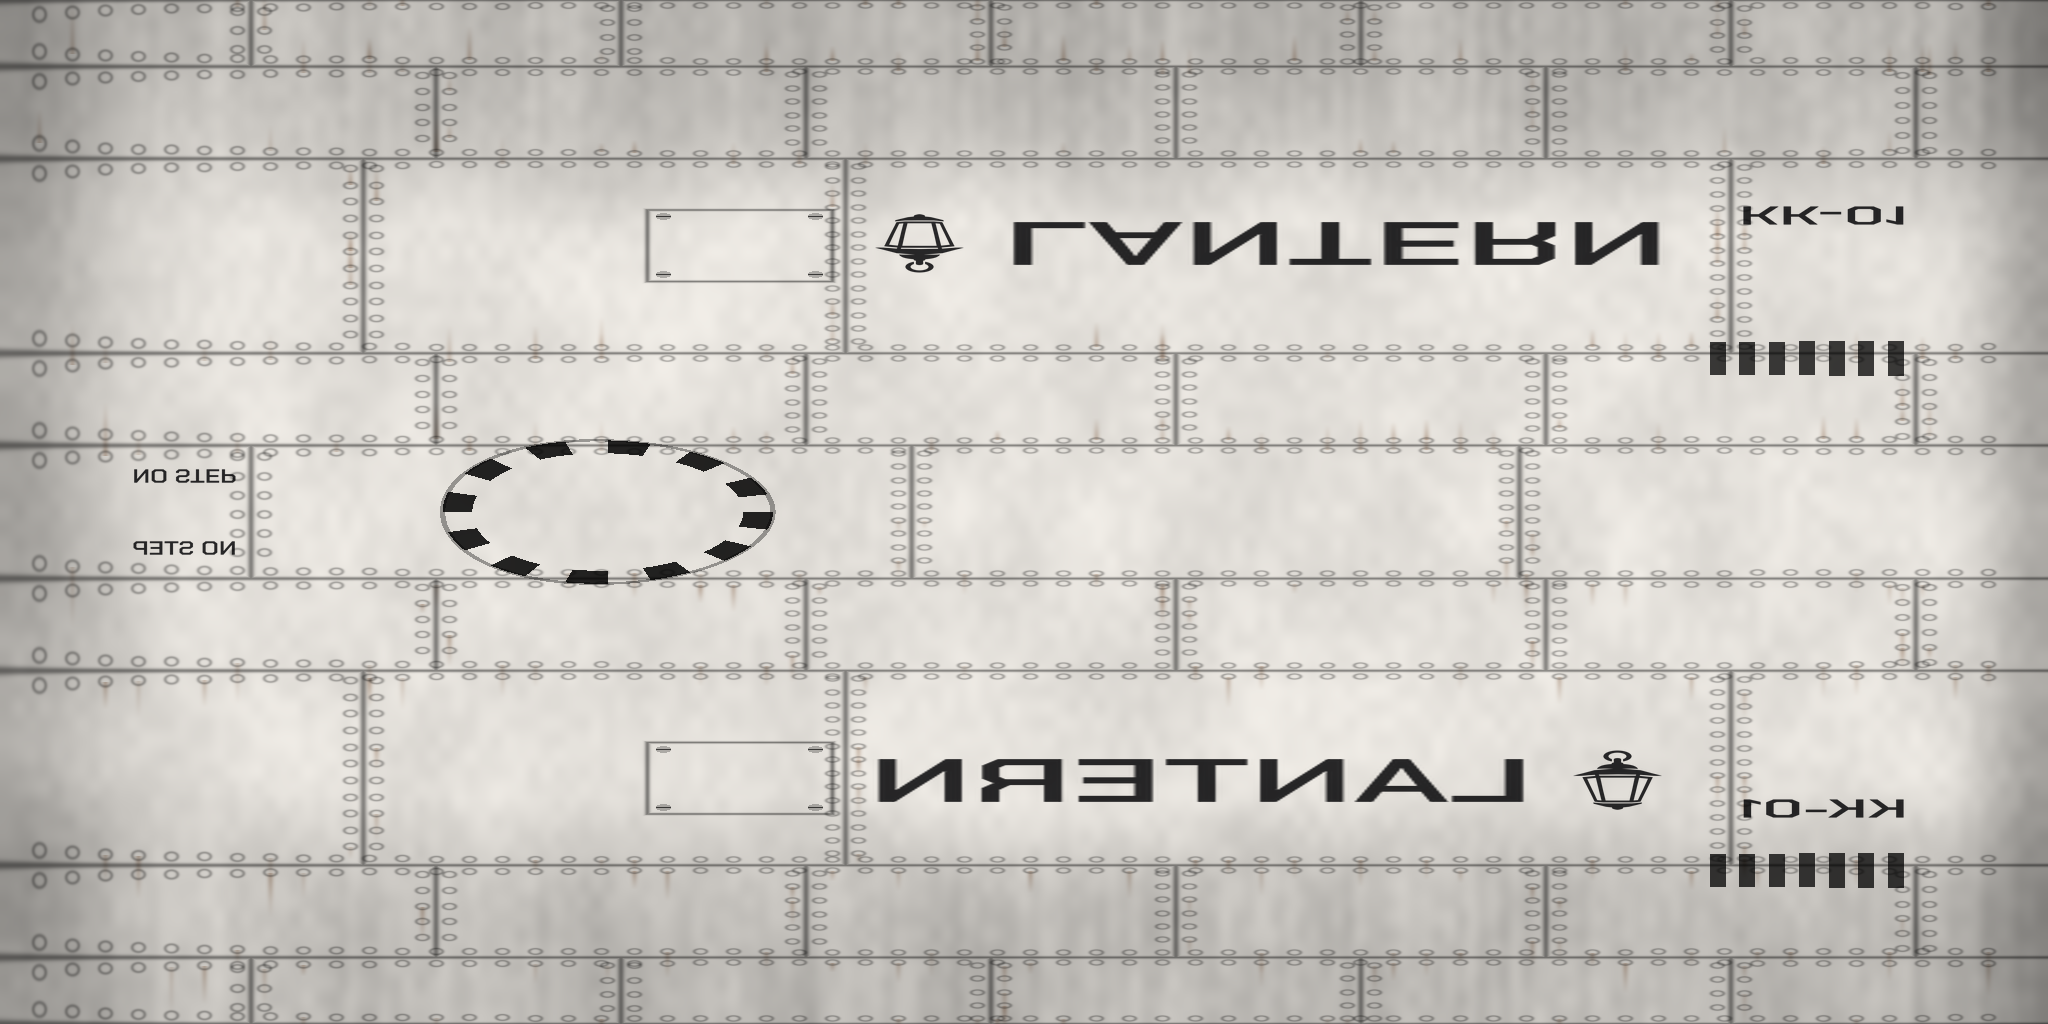
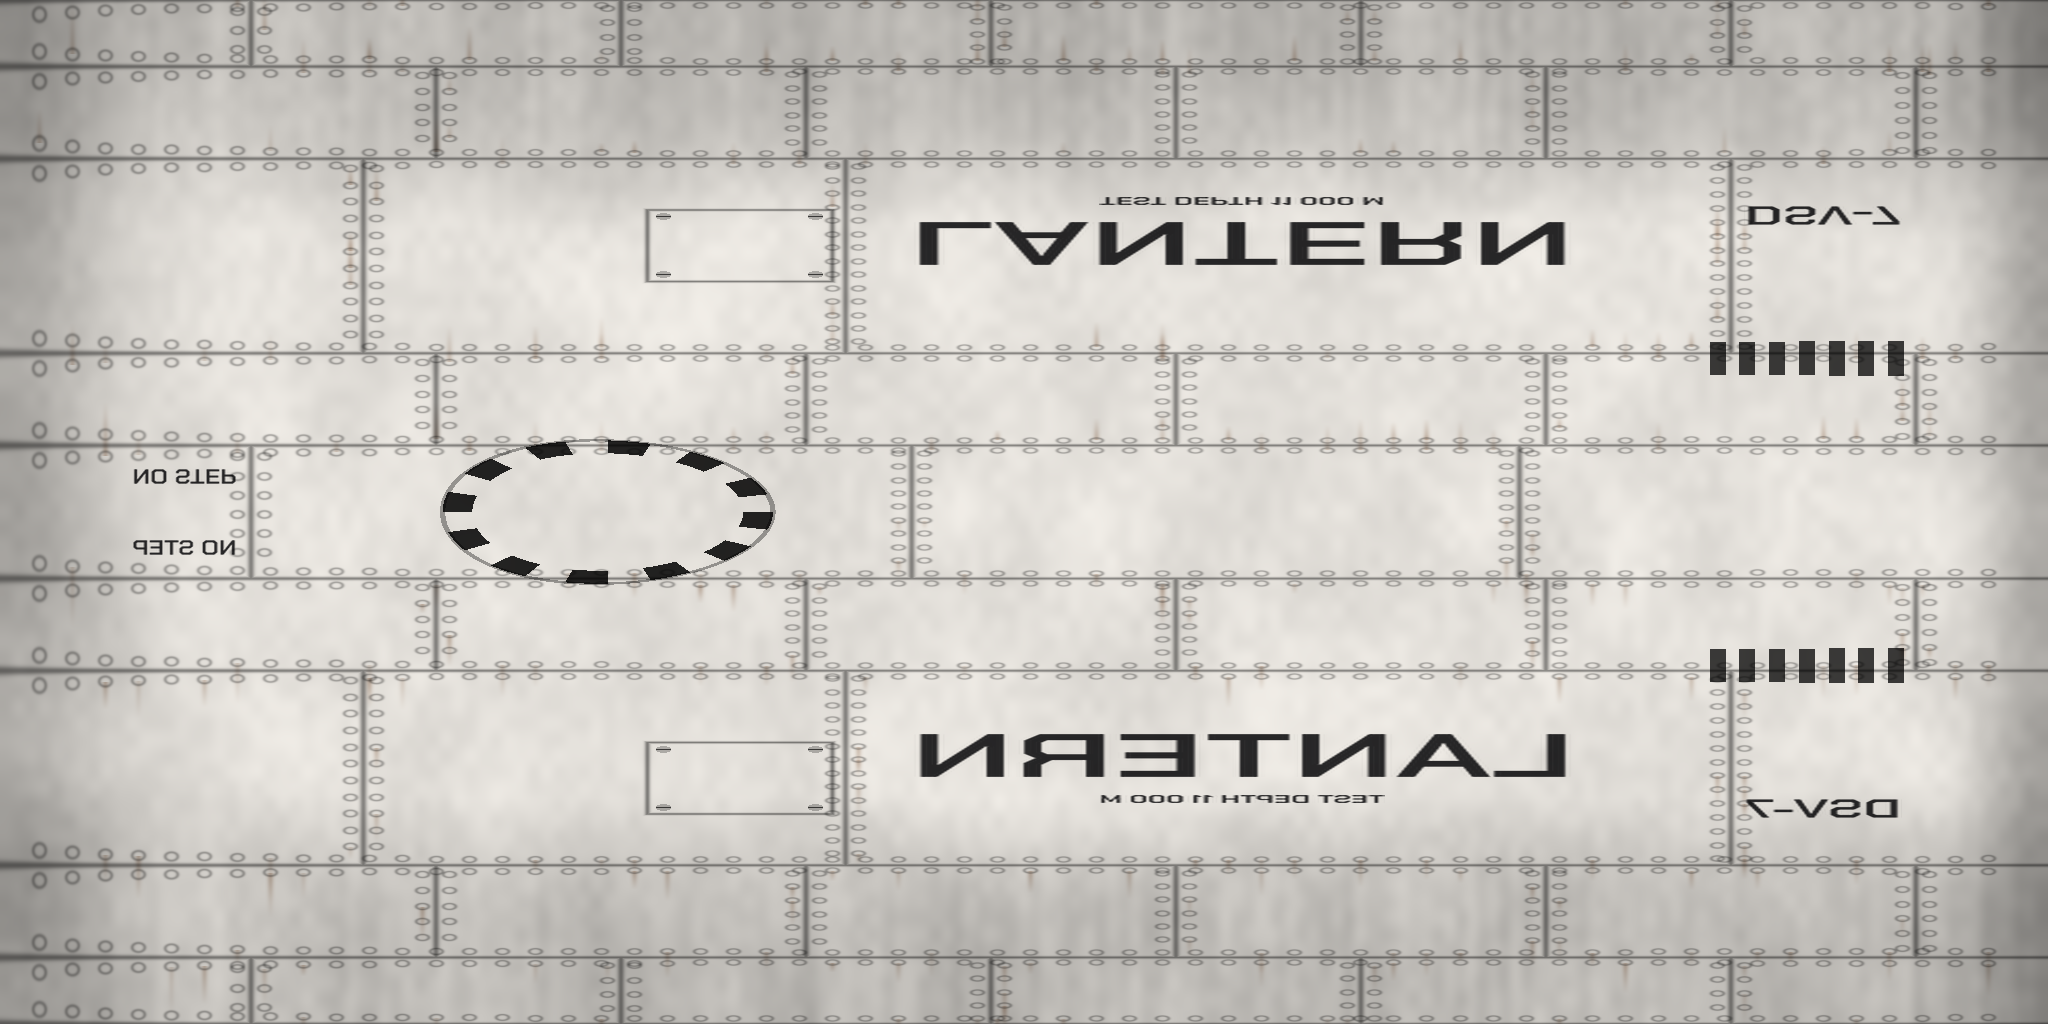
Lantern markings in the game's world: DSV-7 and a depth rating
The hull now carries only its name, the designation DSV-7 and a TEST DEPTH
11 000 M placard; the studio's lantern and the KK-01 number are gone. The
far side's vent grille sits high near the bow like the near side's.

diff --git a/tools/art/hull_maps.py b/tools/art/hull_maps.py
@@ -1,6 +1,7 @@
 #!/usr/bin/env python3
 """Paint-shop maps for a submarine's fairing: an RGB multiply (panel seams,
-rivets, grime, rust streaks, hatches and lettering) and the matching normal
+rivets, grime, rust streaks, hatches, the name, hull designation and depth
+rating) and the matching normal
 map. They wrap the fairing's UVs: u runs stern to bow, v round each section
 from the keel (0), up the near side (0.25), over the deck (0.5) and down the
 far side (0.75), spaced evenly by distance.
@@ -22,7 +23,6 @@ from PIL import Image, ImageDraw, ImageFont
 ROOT = os.path.dirname(os.path.dirname(os.path.dirname(os.path.abspath(__file__))))
 OUT = os.path.join(ROOT, "assets", "subs")
 FONT = os.path.join(ROOT, "assets", "fonts", "ChakraPetch-SemiBold.ttf")
-LOGO = os.path.join(ROOT, "assets", "branding", "lantern.png")
 W, H = 2048, 1024
 rng = np.random.default_rng(7)
 
@@ -116,12 +116,6 @@ def text_mask(text, width_px, height_px, size=220):
     return np.asarray(im, dtype=np.float32) / 255.0
 
 
-def logo_mask(width_px, height_px):
-    im = Image.open(LOGO).split()[-1]
-    im = im.resize((max(int(width_px), 1), max(int(height_px), 1)), Image.LANCZOS)
-    return np.asarray(im, dtype=np.float32) / 255.0
-
-
 def smooth_noise(shape, cells, seed):
     g = np.random.default_rng(seed).random((cells[0] + 3, cells[1] + 3))
     im = Image.fromarray((g * 255).astype(np.uint8)).resize((shape[1], shape[0]), Image.BICUBIC)
@@ -198,35 +192,26 @@ def paint_lantern(hull):
                 mask[sl + 1:] = fade
             stamp(paint, mask * rng.uniform(0.15, 0.35), c, r, np.array([0.55, 0.38, 0.25]))
 
-    # The name and hull number on both sides, a lantern by the name.
+    # The name, the hull designation and the depth rating on both sides.
     def letter(mask, x, v, far):
         m = mask[:, ::-1] if far else mask[::-1, :]
         stamp(paint, m * 0.9, hull.col(x), hull.row(v), np.array([0.07, 0.07, 0.08]))
         stamp(height, m * 0.0004, hull.col(x), hull.row(v), 1.0, "add")
 
-    name_h = 0.17
+    def text(words, height_world, x, width_world=None):
+        mask = text_mask(words, None, height_world * hull.px_v(x))
+        width = width_world * hull.px_x if width_world else mask.shape[1] * hull.px_x / hull.px_v(x)
+        return np.asarray(Image.fromarray((mask * 255).astype(np.uint8)).resize(
+            (int(width), mask.shape[0]), Image.LANCZOS), dtype=np.float32) / 255
+
+    # Below the name is falling v on the near side and rising v on the far side.
     for far in (False, True):
-        v_mid = 0.75 + 0.012 if far else 0.25 - 0.012
-        name = text_mask("LANTERN", None, name_h * hull.px_v(-0.1))
-        name = np.asarray(Image.fromarray((name * 255).astype(np.uint8)).resize(
-            (int(name.shape[1] * hull.px_x / hull.px_v(-0.1)), name.shape[0])), dtype=np.float32) / 255
-        width_world = name.shape[1] / hull.px_x
-        logo_h = name_h * 1.35
-        logo_w = logo_h * 416 / 650
-        x_name = -0.08 + (logo_w + 0.06) / 2 * (-1 if far else 1)
-        x_logo = x_name - (width_world / 2 + 0.05 + logo_w / 2) * (-1 if far else 1)
-        if far:
-            # Seen from the far side the bow is on the left: the lantern goes on the right of the name.
-            x_logo = x_name + (width_world / 2 + 0.05 + logo_w / 2)
-        else:
-            x_logo = x_name - (width_world / 2 + 0.05 + logo_w / 2)
-        letter(name, x_name, v_mid, far)
-        logo = logo_mask(logo_w * hull.px_x, logo_h * hull.px_v(x_logo))
-        letter(logo, x_logo, v_mid, far)
-        number = text_mask("KK-01", 0.26 * hull.px_x, 0.07 * hull.px_v(0.75))
-        letter(number, 0.76, (0.75 + 0.04) if far else (0.25 - 0.04), far)
-        tag = text_mask("NO STEP", 0.16 * hull.px_x, 0.035 * hull.px_v(-1.7))
-        letter(tag, -1.72, 0.5 + (0.035 if far else -0.035), far)
+        side = 1 if far else -1
+        v_mid = 0.75 - side * 0.012 if far else 0.25 + side * 0.012
+        letter(text("LANTERN", 0.17, -0.12), -0.12, v_mid, far)
+        letter(text("TEST DEPTH 11 000 M", 0.032, -0.12), -0.12, v_mid + side * 0.042, far)
+        letter(text("DSV-7", 0.07, 0.76, 0.24), 0.76, (0.75 + 0.04) if far else (0.25 - 0.04), far)
+        letter(text("NO STEP", 0.035, -1.72, 0.16), -1.72, 0.5 + (0.035 if far else -0.035), far)
 
     # A bolted access hatch low on each side, aft of the name.
     for far in (False, True):
@@ -254,7 +239,7 @@ def paint_lantern(hull):
 
     # A vent grille high on each side near the bow: a row of recessed slots.
     for far in (False, True):
-        vc = 0.75 + 0.1 if far else 0.25 + 0.1
+        vc = 0.75 - 0.1 if far else 0.25 + 0.1
         for k in range(7):
             x = 0.6 + k * 0.045
             per = np.interp((x - hull.x0) / hull.length, hull.u, hull.perimeter)

diff --git a/docs/STORY.md b/docs/STORY.md
@@ -68,6 +68,11 @@ where it sank, with its cargo, to be recovered on a later dive. The pilot
 is not there to rescue anyone. Okafor's last message speaks to them
 directly: "Do not come to rescue me. Come to listen."
 
+Their first sub, the Lantern, is a deep research submersible: its hull is
+marked LANTERN, with the designation DSV-7 and the placard "TEST DEPTH
+11 000 M" (the hadal floor lies at about 10 900 m). Whose seventh DSV it was
+is as open as who hired the pilot.
+
 ## The crew
 
 - **Commander R. Hale.** Station commander, practical and protective. Hale
